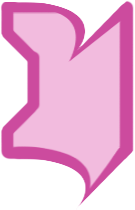
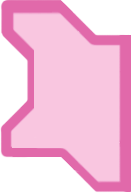
new visuals and styles to accommodate

diff --git a/app/assets/stylesheets/queries.css.scss b/app/assets/stylesheets/queries.css.scss
@@ -49,8 +49,22 @@
 /* ---------- QUERY BUILDER ELEMENTS LAYOUT -----------------*/
 /* --------------------------------------------------------- */
 
-.condition {
-	background :url('visual-interface/whereConditionBox-alt.png');
+.condition-with-both{
+	background :url('visual-interface/whereConditionBox_both.png');
+	background-size: contain;
+	background-repeat:no-repeat;
+	height:103px;
+}
+
+.condition-with-and{
+	background :url('visual-interface/whereConditionBox_and.png');
+	background-size: contain;
+	background-repeat:no-repeat;
+	height:103px;
+}
+
+.condition-with-or{
+	background :url('visual-interface/whereConditionBox_or.png');
 	background-size: contain;
 	background-repeat:no-repeat;
 	height:103px;
@@ -65,7 +79,7 @@
 }
 
 .operatorAcceptor {
-	padding:4px 0px 0px 14px;
+	padding:5px 0px 0px 16px;
 	height: 52px;
 }
 
@@ -73,20 +87,19 @@
 .andAcceptor{
 	height:52px;
 	width: 56px;
-	padding-left:12px;
+	padding-left:13px;
 }
 
 .orAcceptor{
 	height:40px;
 	margin:0px;
-	padding-left: 7px;
-	padding-top: 8px;
+	padding-left: 21px;
+	padding-top: 9px;
 }
 
 // the dropHere class is applied to all acceptors
 .dropHere {
 	text-align:center;
-//	border: 1px solid red;
 }
 
 div.parameterInput{
@@ -135,12 +148,12 @@ div.parameterInput input{
 }
 
 .or-block {
-	width: 80px;
-	height:44px;
+	width: 57px;
+	height: 30px;
 }
 
 .and-block p{
-	padding: 10px 0px 0px 8px;
+	padding: 14px 0px 0px 8px;
 	font-size: 1em;
 	position:relative;
 	bottom: 70px;
@@ -160,7 +173,7 @@ div.parameterInput input{
 
 
 .operator-block {
-	width: 68px;
+	width: 67px;
 	height:60px;
 }
 
